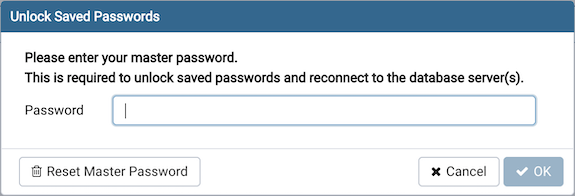
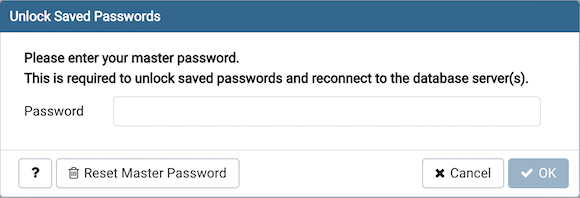
Added Help button on all master password dialogs.

diff --git a/web/pgadmin/browser/static/js/browser.js b/web/pgadmin/browser/static/js/browser.js
@@ -566,6 +566,17 @@ define('pgadmin.browser', [
             setup:function() {
               return {
                 buttons:[{
+                  text: '',
+                  className: 'btn btn-secondary pull-left fa fa-question pg-alertify-icon-button',
+                  attrs: {
+                    name: 'dialog_help',
+                    type: 'button',
+                    label: gettext('Master password'),
+                    url: url_for('help.static', {
+                      'filename': 'master_password.html',
+                    }),
+                  },
+                },{
                   text: gettext('Reset Master Password'), className: 'btn btn-secondary fa fa-trash-o pg-alertify-button pull-left',
                 },{
                   text: gettext('Cancel'), className: 'btn btn-secondary fa fa-times pg-alertify-button',
@@ -582,16 +593,16 @@ define('pgadmin.browser', [
             prepare:function() {
               let self = this;
               let $password = null;
-              let $okBtn = $(self.__internal.buttons[2].element);
+              let $okBtn = $(self.__internal.buttons[3].element);
 
               self.setContent(self.message);
               $password = $(self.elements.body).find('#password');
 
               /* Reset button hide */
               if(!self.reset) {
-                $(self.__internal.buttons[0].element).addClass('d-none');
+                $(self.__internal.buttons[1].element).addClass('d-none');
               } else {
-                $(self.__internal.buttons[0].element).removeClass('d-none');
+                $(self.__internal.buttons[1].element).removeClass('d-none');
               }
 
               /* Enable ok only if password entered */
@@ -607,16 +618,16 @@ define('pgadmin.browser', [
             callback: function(event) {
               let parentDialog = this;
 
-              if (event.index == 2) {
+              if (event.index == 3) {
                 /* OK Button */
                 self.set_master_password(
                   $('#frmMasterPassword #password').val(),
                   parentDialog.set_callback,
                 );
-              } else if(event.index == 1) {
+              } else if(event.index == 2) {
                 /* Cancel button */
                 self.masterpass_callback_queue = [];
-              } else if(event.index == 0) {
+              } else if(event.index == 1) {
                 /* Reset Button */
                 event.cancel = true;
 
@@ -634,6 +645,15 @@ define('pgadmin.browser', [
                   ok: gettext('Yes'),
                   cancel: gettext('No'),
                 });
+              } else if(event.index == 0) {
+                /* help Button */
+                event.cancel = true;
+                self.showHelp(
+                  event.button.element.name,
+                  event.button.element.getAttribute('url'),
+                  null, null
+                );
+                return;
               }
             },
           };

diff --git a/web/pgadmin/static/scss/_alertify.overrides.scss b/web/pgadmin/static/scss/_alertify.overrides.scss
@@ -192,7 +192,7 @@
 
 .pg-alertify-icon-button {
   &:before {
-    font-size: 1.3em !important;
+    font-size: 1.1em !important;
     line-height: 1.2;
     font-family: $font-family-icon;
   }
